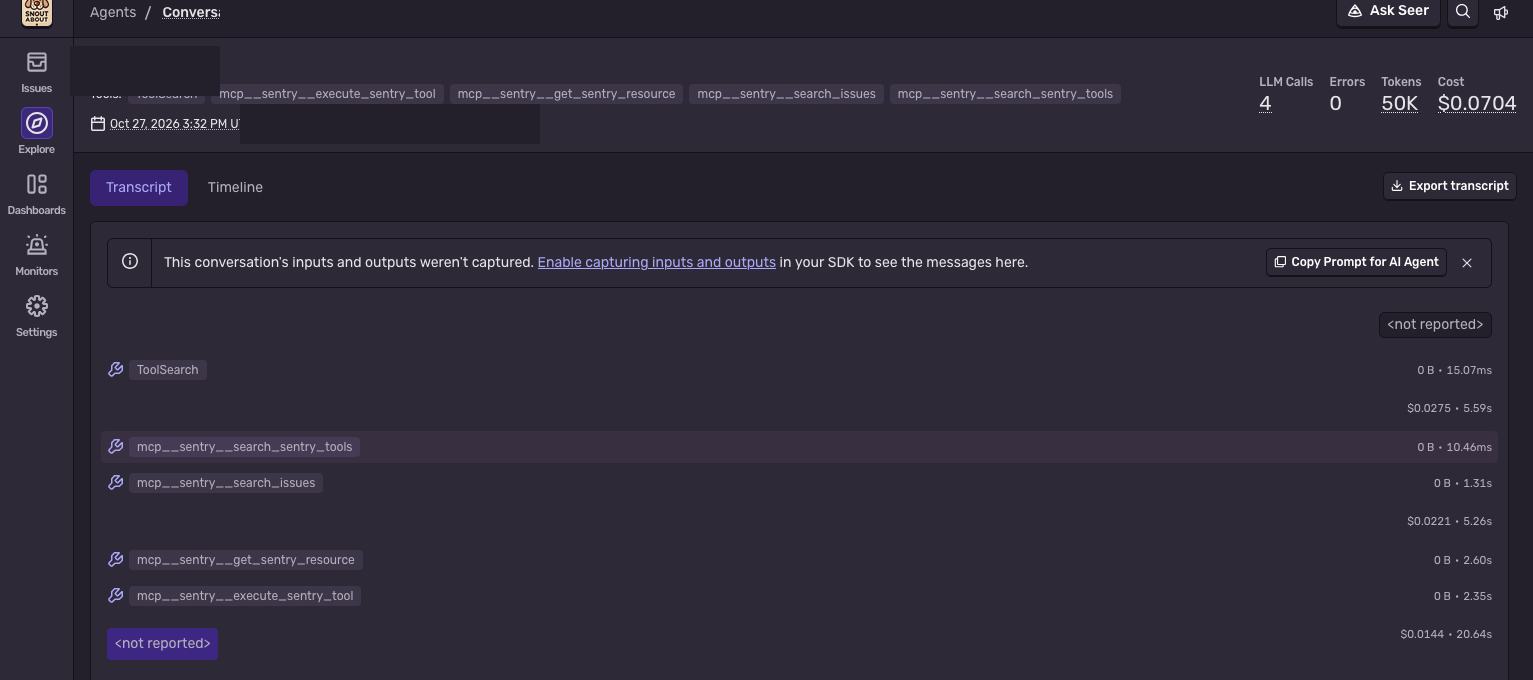
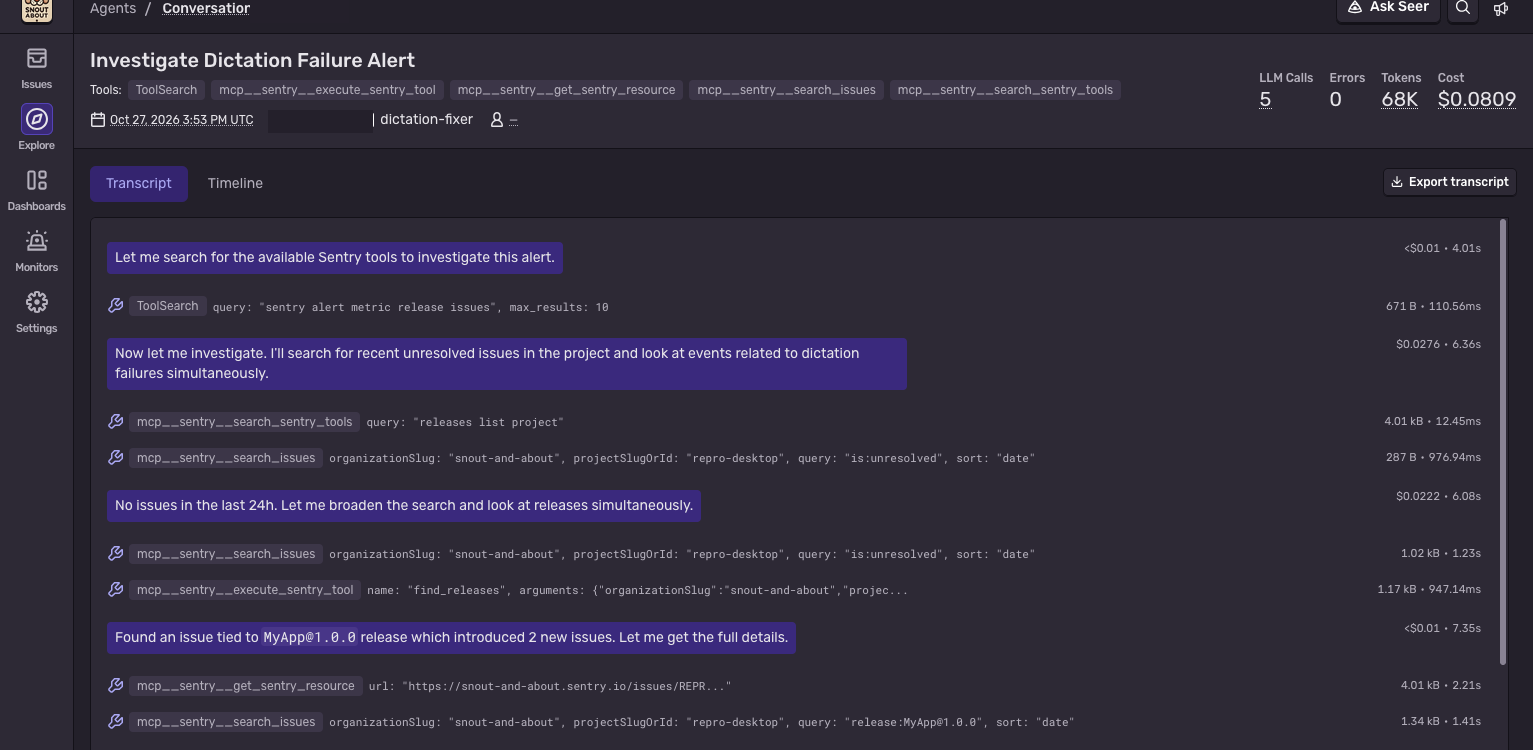
Remove IDs; content-on conversation screenshot

diff --git a/README.md b/README.md
@@ -40,19 +40,17 @@ If `SENTRY_WEBHOOK_SECRET` is set, the request must send `Sentry-Hook-Signature`
 
 ## What the page shows
 
-Content off. Session `14d2f4ba-c3cc-4b1a-8835-b22834f6d7ce`, trace `662e1196fd8a48f199b4ab85d58e3324`. Approximate stream-arrival timing. Four assistant response ids, four `gen_ai.chat` spans, no duplicate id. The page's LLM call count is 4, the same as those ids. Haiku ran once and is not a span, so the page does not count it. Four ids plus Haiku is 5 model calls.
+Content on. Approximate stream-arrival timing. Five assistant response ids, five `gen_ai.chat` spans, no duplicate id. The page's LLM call count is 5, the same as those ids. Haiku ran once and is not a span, so the page does not count it. Five ids plus Haiku is 6 model calls.
 
-![Conversation transcript. Content is off, so tool rows show 0 B. Each chat is one response id.](screenshots/conversation.png)
+![Conversation transcript with content capture on. The header shows 5 LLM calls, 0 errors, 68K tokens, and $0.0809. The crop stops above the final answer.](screenshots/conversation.png)
 
-The transcript lists `ToolSearch` and the Sentry MCP tools. A banner says the prompt and tool bodies were not captured. **0 B** on a tool row means that body was not stored. It does not mean the tool returned an empty result. This picture shows 4 LLM calls, 0 errors, 50K tokens, and $0.0704. The 50K is the sum of the stream's per-message usage. Those four chats report 11 output tokens in all. `result.usage` output is 1,757, and that exact total is on `gen_ai.invoke_agent`, so the conversation summary under-counts output. Haiku is not a chat span, so the page does not count it. The CLI reported $0.133 for this run (6 turns, about 39s).
+The transcript starts with the first assistant message, then `ToolSearch` and the Sentry MCP tools with their arguments, sizes, durations, and costs. The alert text is stored on `gen_ai.invoke_agent` as `gen_ai.input.messages`. This conversation page does not render that user message, so the picture starts at the assistant's first line. The crop stops above the final answer. That answer said a recent release caused the alert. The other runs on this prompt said the same thing, and this demo does not claim that is correct, so the answer is not in the picture. This picture shows 5 LLM calls, 0 errors, 68K tokens, and $0.0809. The 68K is the sum of the stream's per-message usage. Those five chats report 25 output tokens in all. `result.usage` output is 2,135, and that exact total is on `gen_ai.invoke_agent`, so the conversation summary under-counts output. Haiku is not a chat span, so the page does not count it. The CLI reported $0.152 for this run (8 turns, about 42s).
+
+With content capture left off, the same page shows names, durations, and tokens, and the prompts and results read `<not reported>`.
 
 ![Approximate waterfall through the last chat. The 0.06ms parent is the segment closed so the trace can be listed. The first chat includes CLI and MCP startup.](screenshots/trace.png)
 
-Earlier run `d05caab3414749b4a4f94268d8758387`, the whole tree, through the 17.79s chat. The top row, `gen_ai.invoke_agent` named `dictation-fixer`, is **0.06ms**. That span is closed before `claude` starts so Sentry will list the trace while `invoke_agent` is still open. It is not a model call. The long bar under it is `invoke_agent` (45.58s). The first `gen_ai.chat` is 4.46s and starts when the wrapper opens it, before the CLI and MCP are up, so that bar includes startup. Later chats stay open for the rest of the same response id, including across a tool result.
-
-Content on, an older run. Session `3455f50d-4ddd-4519-9e72-60868ec8562d`, trace `3216110cfae6473889e2044c269c0a5e`. The crop stops above the final answer. That answer said a recent release caused the alert. The other runs on this prompt said the same thing, and this demo does not claim that is correct, so the answer is not in the picture. The prompt and tool arguments above it are.
-
-![Content capture on, cropped above the final answer. The prompt and tool arguments are visible.](screenshots/content.png)
+Earlier content-off run, the whole tree, through the 17.79s chat. The top row, `gen_ai.invoke_agent` named `dictation-fixer`, is **0.06ms**. That span is closed before `claude` starts so Sentry will list the trace while `invoke_agent` is still open. It is not a model call. The long bar under it is `invoke_agent` (45.58s). The first `gen_ai.chat` is 4.46s and starts when the wrapper opens it, before the CLI and MCP are up, so that bar includes startup. Later chats stay open for the rest of the same response id, including across a tool result.
 
 ## Env vars
 
@@ -74,7 +72,7 @@ Content on, an older run. Session `3455f50d-4ddd-4519-9e72-60868ec8562d`, trace 
 
 ## Content capture
 
-Leave `DICTATION_FIXER_CAPTURE_CONTENT` unset. Spans then carry names, durations, and token counts. The transcript shows **0 B** where a body would have been.
+Leave `DICTATION_FIXER_CAPTURE_CONTENT` unset. Spans then carry names, durations, and token counts. The same page shows names, durations, and tokens, and the prompts and results read `<not reported>`. A tool row that shows **0 B** means that body was not stored. It does not mean the tool returned an empty result.
 
 Setting it to `1` sends message and tool bodies. On the dictation-fixer project the data scrubber is on, with default scrubbers, and it still did not remove file paths or organization slugs. Do not turn this on against a project whose scrubbing you have not checked.
 
@@ -114,6 +112,6 @@ Sentry's OTLP endpoint accepts traces and logs. `POST .../v1/metrics` returns 40
 
 The CLI's `input_tokens` is the uncached count. Sentry prices `(input - cache read - cache write)` at the input rate, then adds cache read and cache write at their own rates. Copying the uncached count across next to those cache fields makes the cost negative. `usage_attributes()` sets `gen_ai.usage.input_tokens` to uncached + cache read + cache write. The alias fields are the same counts as `gen_ai.usage.cache_read.input_tokens` and `gen_ai.usage.cache_creation.input_tokens`. A one-trace check priced both layouts the same.
 
-Sentry's cost is an estimate. For `claude-sonnet-4-6` it prices cache writes at the 5-minute rate, $3.75 per million tokens. These runs write a 1-hour cache (`ephemeral_1h`), which the CLI prices at $6 per million. Sentry can therefore under-report. On this run its price of the Sonnet tokens was $0.097 and `result.total_cost_usd` was $0.133. The real figure is `result.total_cost_usd` on the `gen_ai.invoke_agent` span (`gen_ai.usage.total_cost_usd`). The conversation summary sums the chat spans. It is not that figure. The page shows $0.0704 because those spans carry the stream's output count, 11 tokens, not the 1,757 on `result.usage`. A row that reads `<$0.01` is a positive cost under one cent. Haiku is not a chat span, so its cost is not in the summary.
+Sentry's cost is an estimate. For `claude-sonnet-4-6` it prices cache writes at the 5-minute rate, $3.75 per million tokens. These runs write a 1-hour cache (`ephemeral_1h`), which the CLI prices at $6 per million. Sentry can therefore under-report. On this run its price of the Sonnet tokens was $0.113 and `result.total_cost_usd` was $0.152. The real figure is `result.total_cost_usd` on the `gen_ai.invoke_agent` span (`gen_ai.usage.total_cost_usd`). The conversation summary sums the chat spans. It is not that figure. The page shows $0.0809 because those spans carry the stream's output count, 25 tokens, not the 2,135 on `result.usage`. A row that reads `<$0.01` is a positive cost under one cent. Haiku is not a chat span, so its cost is not in the summary.
 
-Chat spans keep the output count from the stream. Several messages report 1 output token. On this run the four chats summed to 11 output tokens, and `result.usage` output was 1,757. That exact total is on `invoke_agent` only. Sonnet input on the chats matches `result.usage` (50,258, of which 34,257 are cache read and 15,991 are cache write). Haiku is 579 input and 19 output, on `gen_ai.side_model.*`, outside `result.usage`.
+Chat spans keep the output count from the stream. Several messages report 1 output token. On this run the five chats summed to 25 output tokens, and `result.usage` output was 2,135. That exact total is on `invoke_agent` only. Sonnet input on the chats matches `result.usage` (68,833, of which 51,484 are cache read and 17,338 are cache write). Haiku is 579 input and 19 output, on `gen_ai.side_model.*`, outside `result.usage`.
